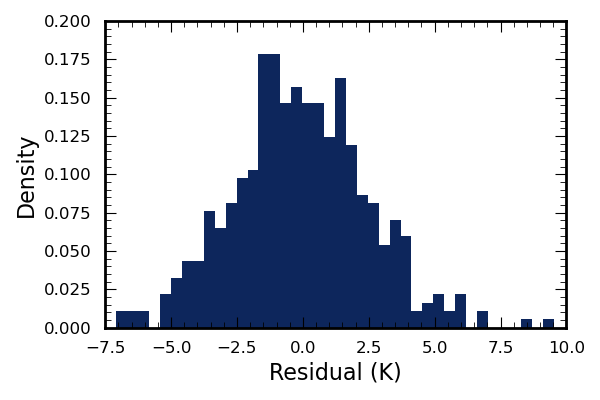
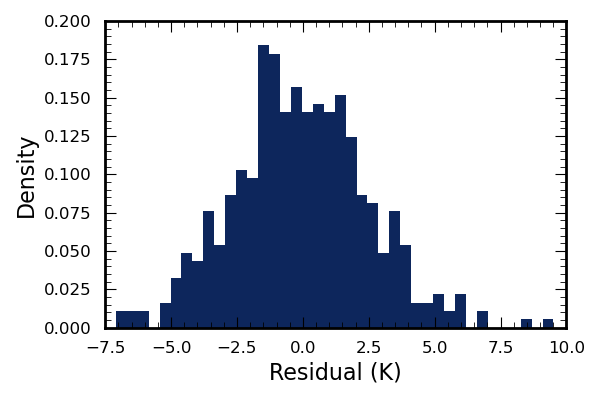
Calculated chi squared

diff --git a/lab2/flatten.py b/lab2/flatten.py
@@ -20,7 +20,7 @@ signalLowFlat = np.divide(signalLow, calLow)*gain
 
 velocitiesLowFit = np.concatenate((velocitiesLow[0:120],velocitiesLow[540:-1]))
 signalLowFit = np.concatenate((signalLowFlat[0:120],signalLowFlat[540:-1]))
-err = np.ones(len(signalLowFit))
+err = 3.72902*np.ones(len(signalLowFit))
 
 pos = [5e6,-0.0005,140]*np.ones([16,3]) + [5e6,-0.0005,140]*((np.random.random([16,3])-0.5)/5)
 
@@ -35,12 +35,17 @@ logProb = sampler.get_log_prob()
 redChiSq = np.mean(-logProb[-1]/(631))
 print("Chi Sq Low", redChiSq)
 
+
+
 lowParams = np.ones(ndim)
 for i in range(ndim):
     lowParams[i] = np.percentile(flatSamples[:,i],50)
 
 lowFlat = signalLowFlat - functions.polyModel(lowParams, velocitiesLow)
 
+residuals = signalLowFit - functions.polyModel(lowParams, velocitiesLowFit)
+stdDev = np.std(residuals)
+print(stdDev)
 
 signalHigh = dataHigh[1][1024:]
 calHigh = np.flip(dataHigh[1][0:1024])
@@ -51,7 +56,7 @@ velocitiesHigh = dataHigh[0][1024:]
 
 velocitiesHighFit = np.concatenate((velocitiesHigh[0:540], velocitiesHigh[-75:]))
 signalHighFit = np.concatenate((signalHighFlat[0:540],signalHighFlat[-75:]))
-err = np.ones(len(signalHighFit))
+err = 3.46*np.ones(len(signalHighFit))
 
 
 pos = [5e6,0.0005,140]*np.ones([16,3]) + [5e6,0.0005,140]*((np.random.random([16,3])-0.5)/5)
@@ -71,6 +76,10 @@ for i in range(ndim):
     highParams[i] = np.percentile(flatSamples[:,i],50)
 
 highFlat = signalHighFlat - functions.polyModel(highParams, velocitiesHigh) 
+
+residuals = signalHighFit - functions.polyModel(highParams, velocitiesHighFit)
+stdDev = np.std(residuals)
+print(stdDev)
 
 
 fig, ax = plt.subplots(2,1, figsize = (6,8))

diff --git a/lab2/gaussFit.py b/lab2/gaussFit.py
@@ -38,9 +38,9 @@ filename = "./lab2data/flattenedSignal.gz"
 data = np.loadtxt(filename)
 velocities = data[0]
 signal = data[1]
-err = np.ones(len(signal))*2
+err = np.ones(len(signal))*2.5563
 
-initialGuess = [-0.00003,0.000035, 0.004, -0.00019, 0.00005, 0.004]
+initialGuess = [-0.00003,0.000035, 50, -0.00019, 0.00005, 50]
 
 pos = initialGuess*np.ones([16,6]) + initialGuess*((np.random.random([16,6])-0.5)/50)
 
@@ -57,6 +57,10 @@ gaussParams = np.ones(ndim)
 for i in range(ndim):
     gaussParams[i] = np.percentile(flatSamples[:,i],50)
 
+residuals = signal - functions.doubleGaussModel(gaussParams, velocities)
+stdDev = np.std(residuals)
+print(stdDev)
+
 for i in range(ndim):
     mcmc = np.percentile(flatSamples[:,i],[16,50,84])
     q = np.diff(mcmc)
@@ -72,3 +76,4 @@ plt.savefig("./images/doubleGaussFit.png")
 fig1 = corner.corner(flatSamples, labels = ["$\mu_1$", "$\sigma_1$", "$A_1$", "$\mu_2$", "$\sigma_2$", "$A_2$"])
 plt.savefig("./images/doubleGaussCorner.png")
 print(gaussParams)
+print(redChiSq)

diff --git a/lab2/fig5.py b/lab2/fig5.py
@@ -37,14 +37,13 @@ data = np.loadtxt(filename)
 velocities = data[0]
 signal = data[1]
 
-gaussParams = [-3.50913783e-5,  3.21491712e-5,  3.62617252e-3, -1.75673198e-4,
-  6.25805193e-5,  4.49589864e-3]
+gaussParams = [-3.50843837e-05,  3.21621661e-05,  4.49978047e+01, -1.75699364e-04, 6.25757372e-05,  2.86485907e+01]
 
 fig, ax = plt.subplots(1,1, figsize = (6,4))
 ax.plot(velocities*100, signal, color = colors.blue)
 ax.plot(velocities*100, functions.doubleGaussModel(gaussParams, velocities), color = colors.yellow, lw = 2)
 
-ax.set_xlabel("Velocity (0.1c)", fontsize = axesLabelSize)
+ax.set_xlabel("Velocity (0.01c)", fontsize = axesLabelSize)
 ax.set_ylabel("Relative Temperature (K)", fontsize = axesLabelSize)
 
 ax.tick_params(axis = 'x', bottom = True, top = True, which = "major", direction = "in", labelsize = tickLabelSize, pad = 10)

diff --git a/lab2/functions.py b/lab2/functions.py
@@ -54,12 +54,12 @@ def polyModel(params,x):
 def gaussModel(params,x):
     return (params[2]/(params[1]*np.sqrt(2*np.pi)))*np.exp(-0.5*((x-params[0])/params[1])**2)
 
-def doubleGaussModel(params, x):
-     return (params[2]/(params[1]*np.sqrt(2*np.pi)))*np.exp(-0.5*((x-params[0])/params[1])**2) + (params[5]/(params[4]*np.sqrt(2*np.pi)))*np.exp(-0.5*((x-params[3])/params[4])**2) 
+def doubleGaussModel(params, x): 
+     return params[2]*np.exp(-0.5*((x-params[0])/params[1])**2) + params[5]*np.exp(-0.5*((x-params[3])/params[4])**2) 
 
 def logLikelihood(theta, x, y, err, model):
     predicted = model(theta,x)
-    error = [((y[i] - predicted[i])**2 / (2*err[i]**2)) for i in range(len(y))]
+    error = [((y[i] - predicted[i])**2 / (err[i]**2)) for i in range(len(y))]
     lnl = -np.sum(error)
     return lnl
 
